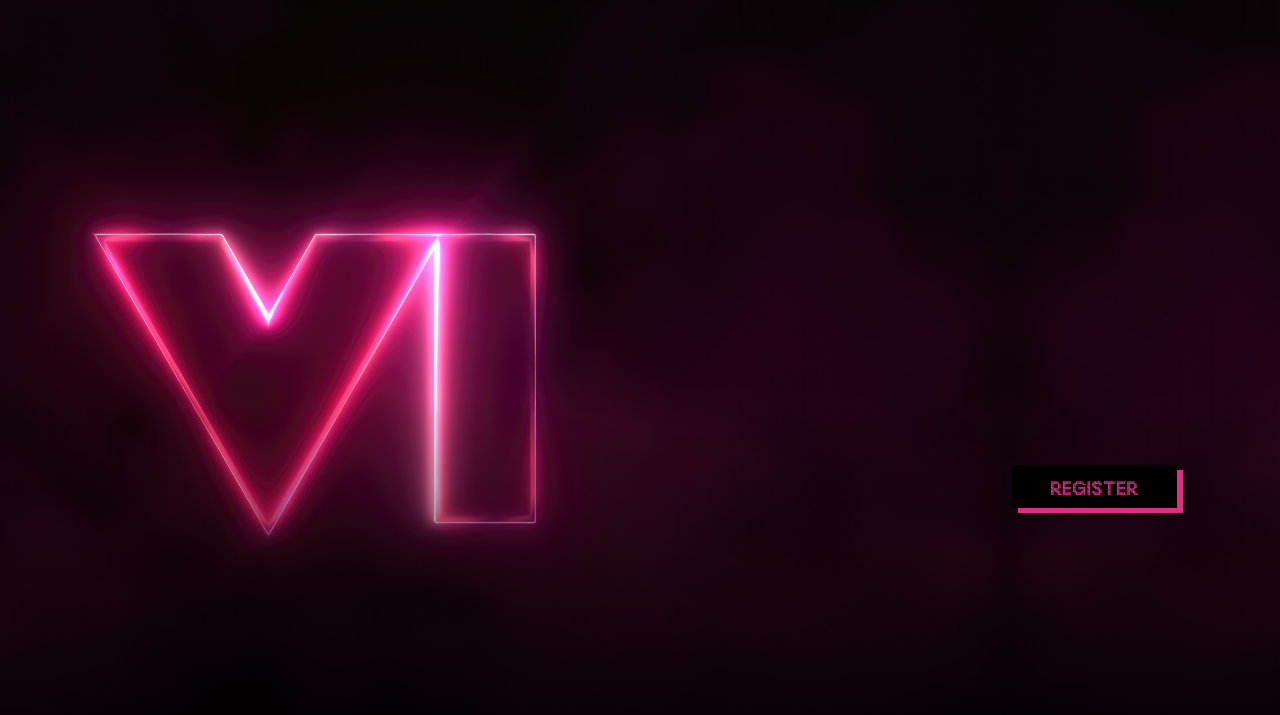
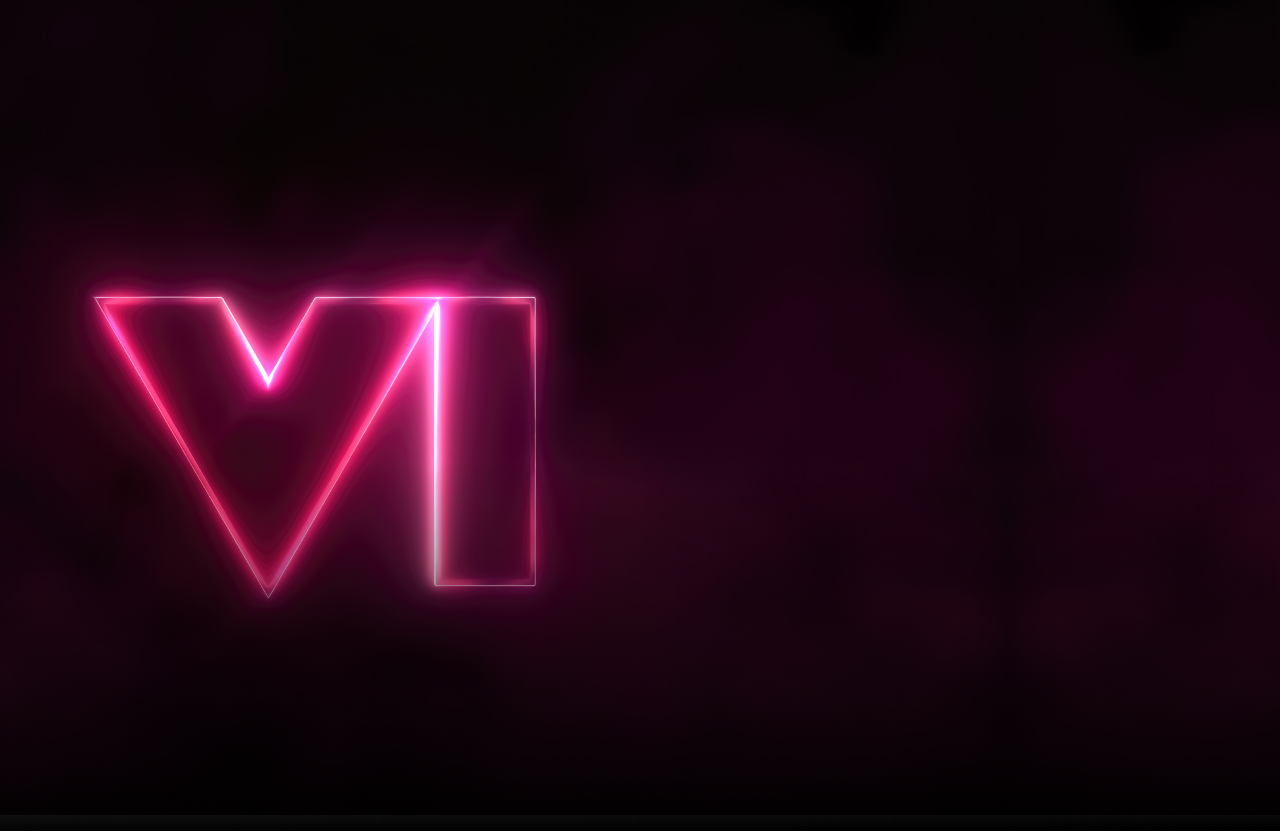
Changed Image

diff --git a/client/src/components/GameJam/GameJam.js b/client/src/components/GameJam/GameJam.js
@@ -22,14 +22,14 @@ const GameJam = () => {
     navigate("/");
   };
   return (
-    <div className="bg-black h-screen  text-white">
+    <div className="bg-black   text-white">
       <div className="sixImage lg:h-full lg:w-full">
         <div className="">{status ? <HamburgerNavbar /> : <Navbar />}</div>
-        <div className=" flex lg:flex-row flex-col lg:mt-40 items-center lg:justify-around">
+        <div className=" flex lg:flex-row flex-col lg:mt-40  items-center lg:justify-around ml-32">
           <div></div>
-          <div className="">
+          <div className="lg:mt-0 ">
             <div>
-              <h3 className="font-instagram font-bold lg:text-2xl">
+              <h3 className="font-instagram font-bold lg:text-2xl lg:w-full w-[10rem]">
                 GDSC LNMIIT X PRESIDENTIAL COUNCIL LNMIIT PRESENTS
               </h3>
               <h1 className="font-pricedown lg:text-9xl text-4xl lg:text-right text-center ">
@@ -47,8 +47,8 @@ const GameJam = () => {
           </div>
         </div>
       </div>
-      <div className="flex  bg-black  items-center relative flex-col ">
-        <div className="flex lg:mr-[45rem] lg:-top-7 lg:absolute sm:text-center">
+      <div className="flex  bg-black pt-16  items-center relative flex-col ">
+        <div className="flex lg:mr-[45rem] lg:top-10 lg:absolute sm:text-center">
           <h1 className="text-white font-array font-array  lg:text-5xl text-3xl mb-4">
             Rules and Regulations
           </h1>
@@ -72,7 +72,7 @@ const GameJam = () => {
               },
             }}
             viewport={{ once: true }}
-            className="absolute text-white lg:bottom-[4rem] lg:left-[25%] lg:w-1/2 md:w-2/3  text-center flex lg:justify-center lg:items-center top-16 lg:text-[18px] text-[11px] py-2 lg:px-8 px-12"
+            className="absolute text-white lg:bottom-[2rem] lg:left-[25%] lg:w-1/2 md:w-2/3  text-center flex lg:justify-center lg:items-center top-32 lg:text-[18px] text-[11px] py-2 lg:px-8 px-12"
           >
             Get ready to level up your creativity with our game jam theme: 'Game
             within a game'! Ever wanted to dive into a virtual world where every

diff --git a/client/src/components/GameCodex/GameCodex.css b/client/src/components/GameCodex/GameCodex.css
@@ -36,4 +36,5 @@ svg {
   background-image: url("../../assets/six.png");
   background-repeat: no-repeat;
   background-position: center;
+  background-size: cover;
 }
